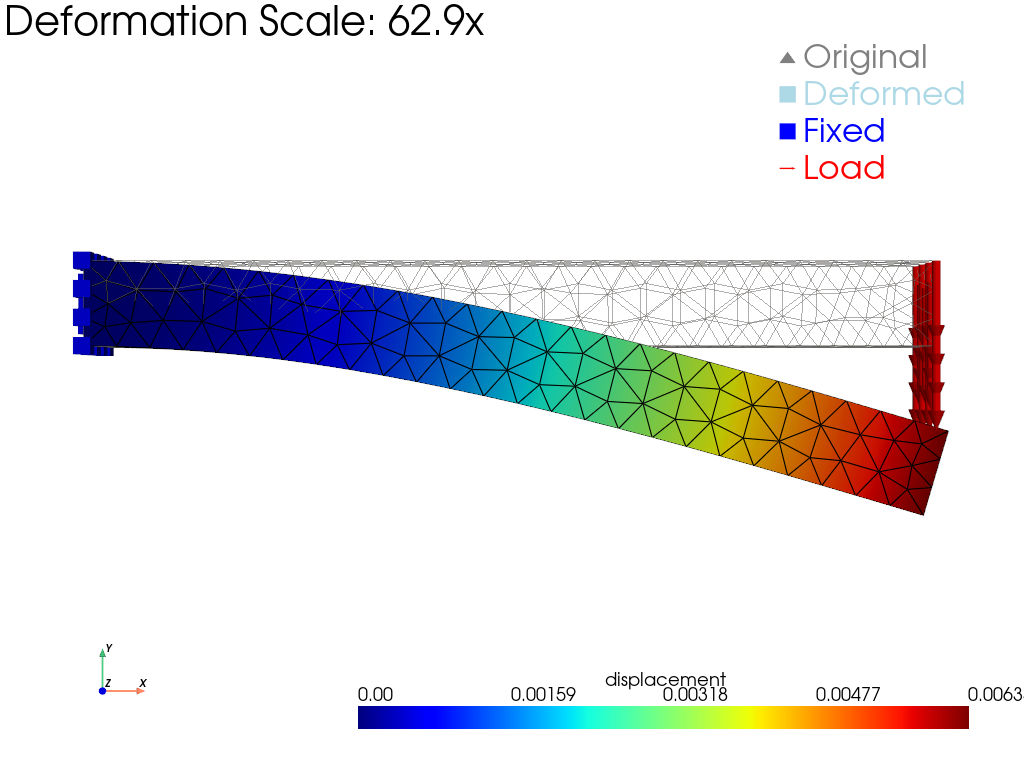
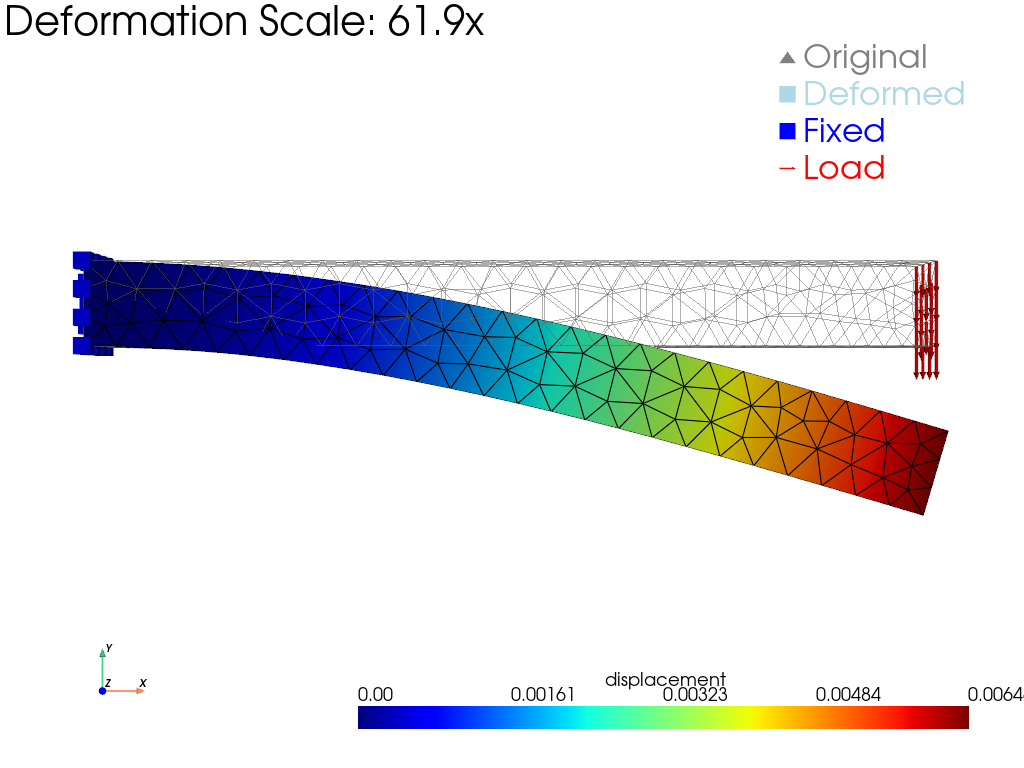
docs: refresh solid linear/hyperelastic/contact figures and embed them
- Refresh cantilever_steel, hertzian_contact, and hyperelastic_rubber
  PNGs under source/_static/solid_mechanics/ with newer renders from
  the example scripts.
- Replace the figure placeholders in solid/cantilever_beam.rst,
  solid/hertzian_contact.rst, and solid/hyperelastic_beam.rst with
  .. figure:: blocks and captions that describe what each figure
  shows (deformation scale, von Mises subsurface stress, finite-
  rotation hyperelastic response).

The remaining solid pages (emmentaler, plasticity_strip, plasticity_3d,
mousavi2026) still carry placeholder lines pending a content review.

diff --git a/docs/source/example_gallery/solid/cantilever_beam.rst b/docs/source/example_gallery/solid/cantilever_beam.rst
@@ -116,7 +116,19 @@ The FEM solution at the right-face center should agree to within
 the coarse-mesh approximation error (a few percent at
 ``chara_length=0.08``).
 
-*(figure: deformed mesh in red overlaid on undeformed in grey, tip-deflection vector annotated; will be added in a follow-up)*
+.. figure:: /_static/solid_mechanics/cantilever_steel.png
+   :alt: Steel cantilever beam — deformed shape with tip load, displacement coloring
+   :width: 100%
+
+   Output of ``cantilever_beam.py``. The undeformed beam is drawn
+   in light grey; the deformed configuration is colored by
+   displacement magnitude. Blue cubes mark fixed nodes at
+   :math:`x=0`; red arrows mark the distributed tip load on the
+   :math:`x=L` face. The deformation is exaggerated by ~62× so the
+   bending is visible at this aspect ratio — the actual tip
+   displacement is on the order of millimeters and matches the
+   Euler-Bernoulli closed form to within the coarse-mesh
+   approximation error.
 
 
 Running it

diff --git a/docs/source/example_gallery/solid/hertzian_contact.rst b/docs/source/example_gallery/solid/hertzian_contact.rst
@@ -130,7 +130,18 @@ on the analytical curve in ``hertzian_contact.png`` — the FEM
 match is good once the mesh is fine enough near the contact patch
 (``chara_length=0.1`` is a reasonable starting point).
 
-*(figure: von Mises stress contours, contact pressure profile vs Hertz analytical; will be added in a follow-up)*
+.. figure:: /_static/solid_mechanics/hertzian_contact.png
+   :alt: Hertzian contact von Mises stress field
+   :width: 100%
+
+   Output of ``hertzian_contact.py``: von Mises stress field on
+   the deformable indenter (circle) pressed against the
+   displaced block (right). Stress concentrates in a roughly
+   teardrop-shaped region inside the indenter, centered just
+   inboard of the contact patch — the classical Hertzian
+   subsurface stress distribution. The fixed left wall and
+   prescribed displacement arrows on the right block illustrate
+   the boundary setup.
 
 
 Running it

diff --git a/docs/source/example_gallery/solid/hyperelastic_beam.rst b/docs/source/example_gallery/solid/hyperelastic_beam.rst
@@ -119,7 +119,18 @@ For a more sophisticated treatment of incompressibility, see
 :doc:`emmentaler`'s hyperelastic stage with the same
 ``NeoHookeanModel``.
 
-*(figure: deformed beam in the twisted configuration, isometric view; will be added in a follow-up)*
+.. figure:: /_static/solid_mechanics/hyperelastic_rubber.png
+   :alt: Hyperelastic rubber beam under torsion, deformed configuration
+   :width: 100%
+
+   Output of ``hyperelastic_beam.py``: the rubber beam in its
+   final twisted configuration, colored by displacement
+   magnitude. The right end (blue cubes) is fixed; red arrows on
+   the left end show the prescribed twisting load applied
+   incrementally over 10 LBFGS load steps. Unlike the linear
+   cantilever above, the deformation is shown at 1.0× — the
+   Neo-Hookean response handles finite rotations without
+   linearization artifacts.
 
 
 Running it